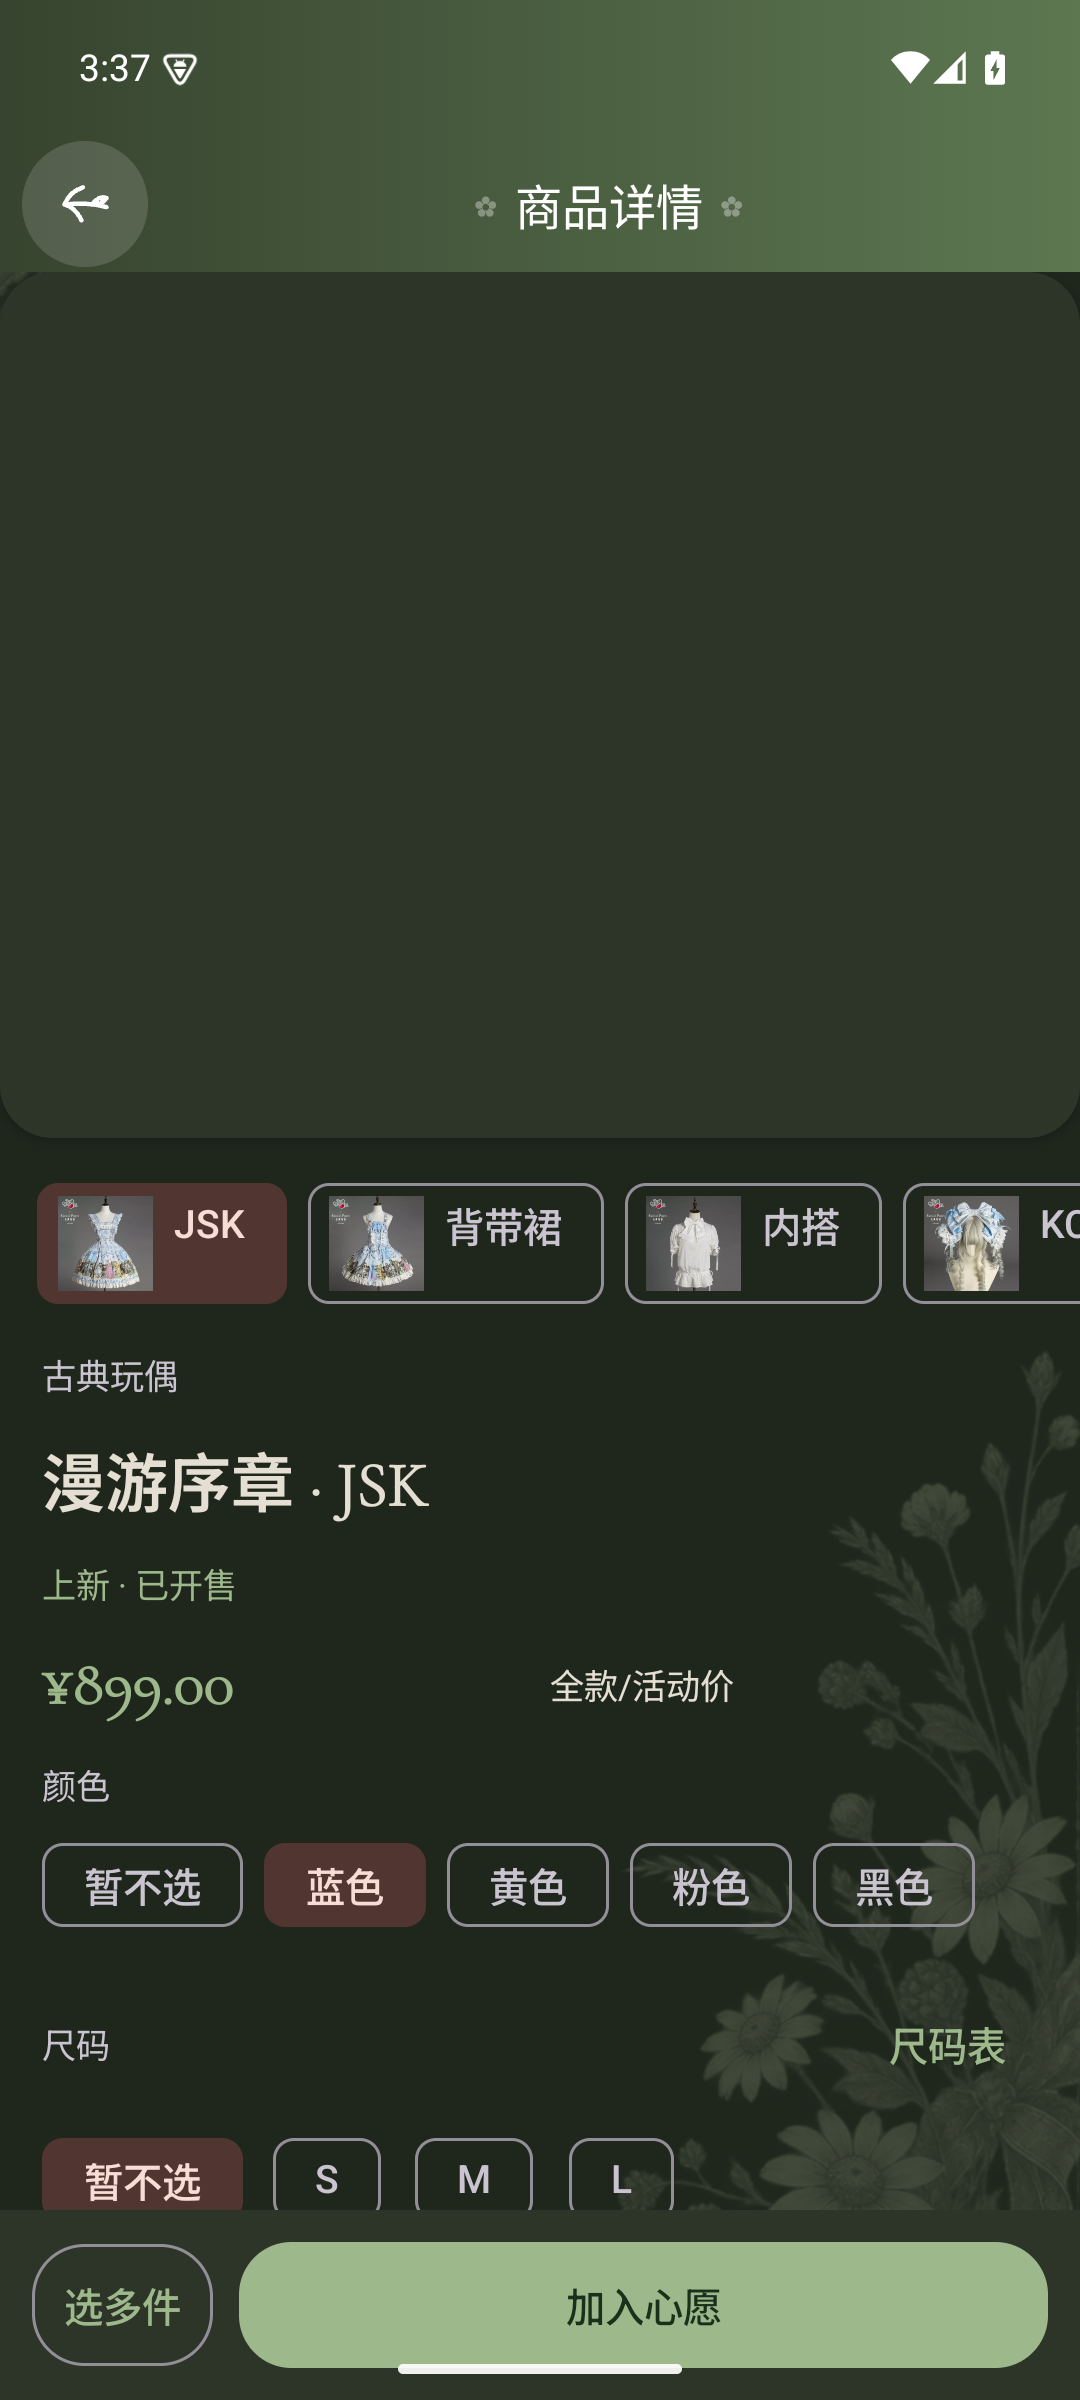
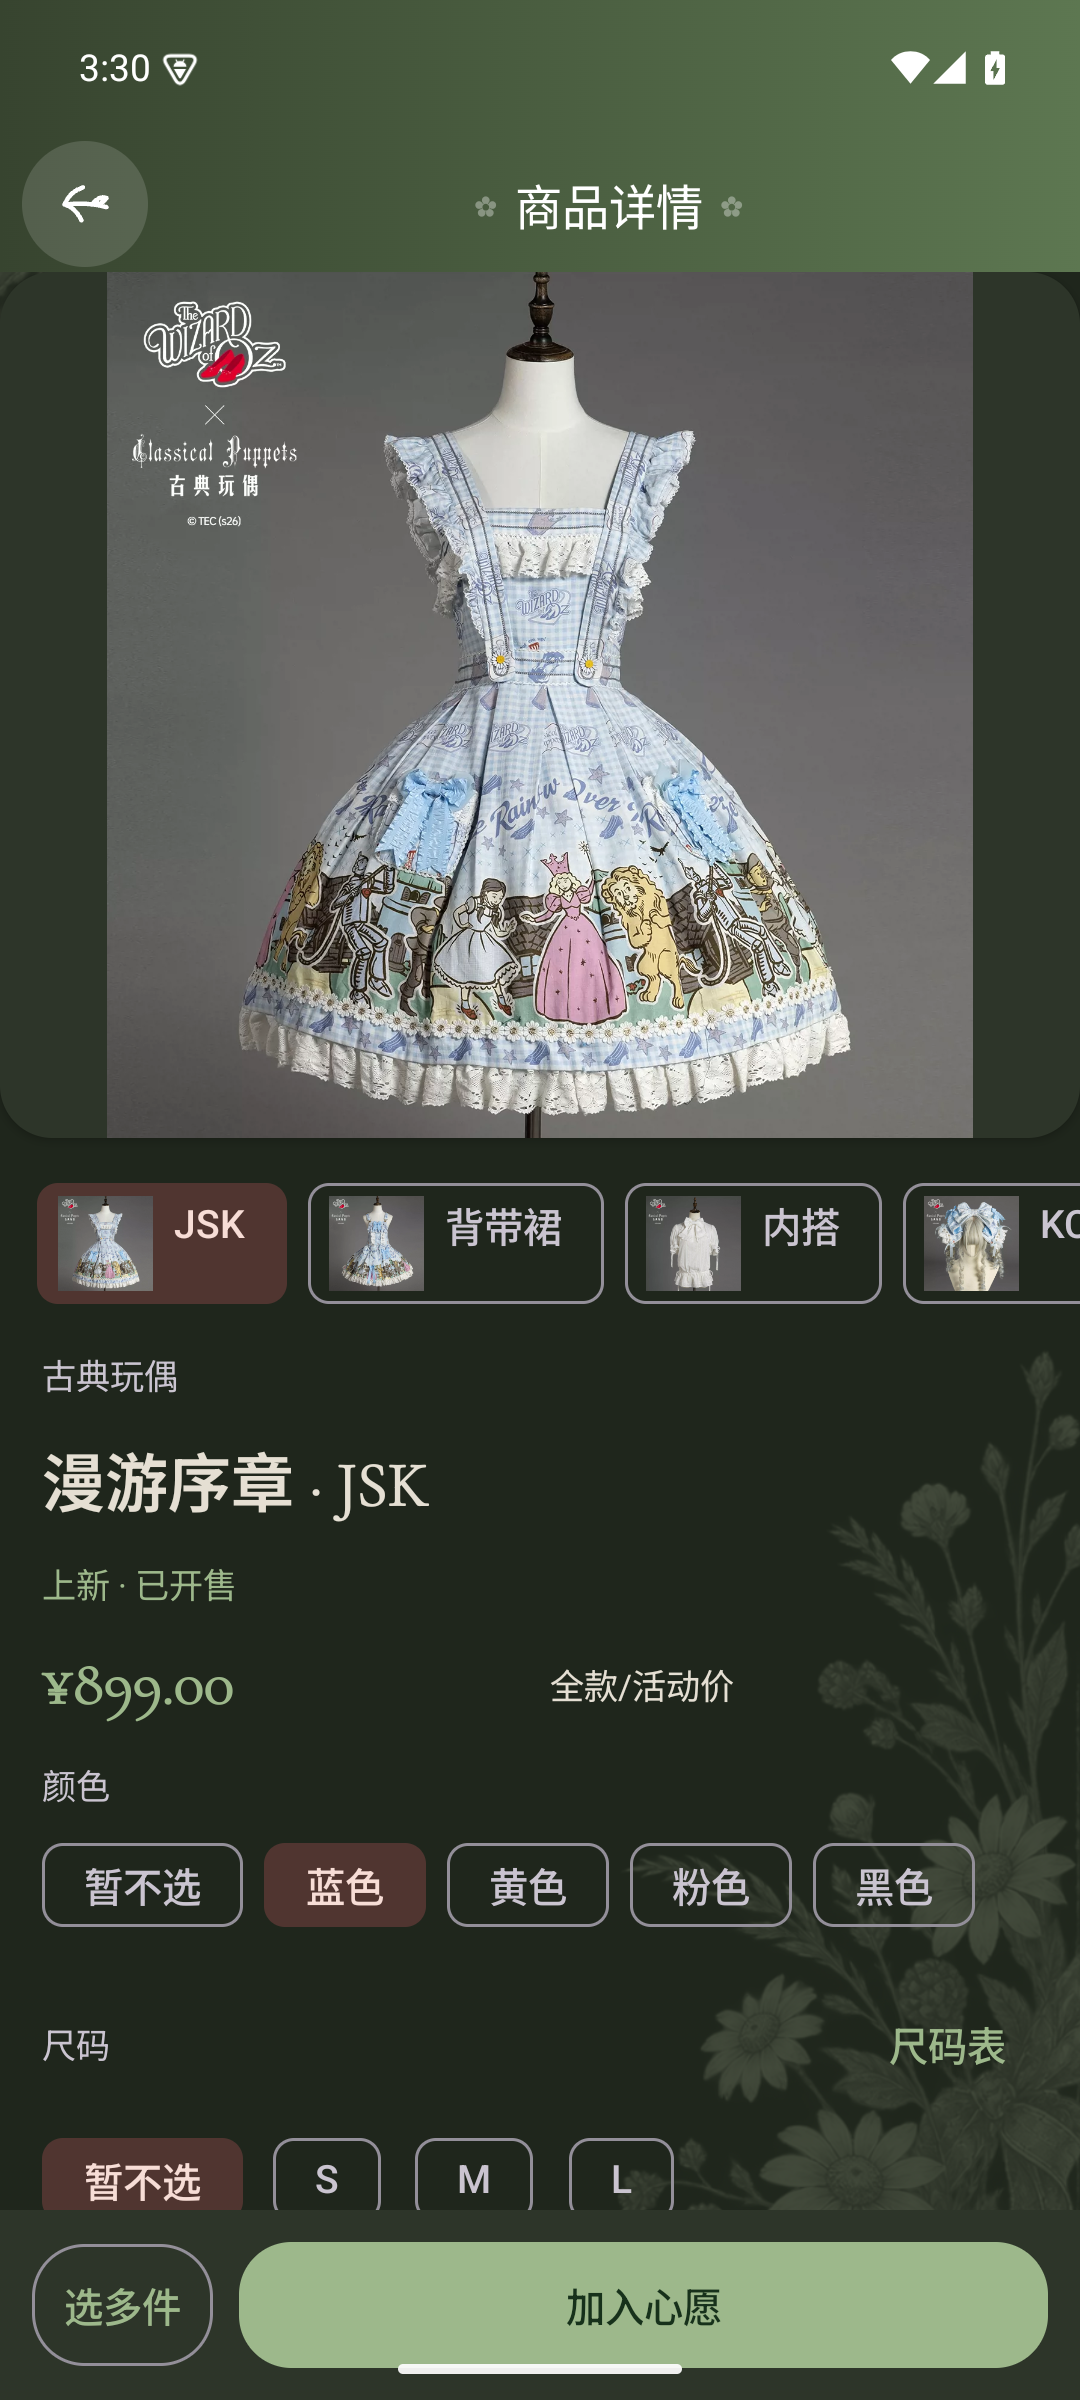
chore: retain loaded native skin review frame

Changed region(s): [[0.0917, 0.0938, 0.9167, 0.5]]

diff --git a/docs/visuals/2026-11-06-square-browse-first/native/README.md b/docs/visuals/2026-11-06-square-browse-first/native/README.md
@@ -8,3 +8,5 @@
 - missing-component：没有独立图时不借用系列图作为封面。tail：尾款没有保存入口。info：可按需打开与返回关闭。small-real-ime-search：真实系统键盘。
 
 历史原型另在../artist。MainActivity/Release实拍与覆盖保全记录见实施报告。
+
+田园暗色普通商品图采用同轮较早的已加载原生帧（本机settled归档），避免后续归档里图片异步加载中的空画框覆盖已验收截图；没有编辑或补绘截图。商品布局与最终相同，单件成功反馈由最终app/after-black帧核对。
